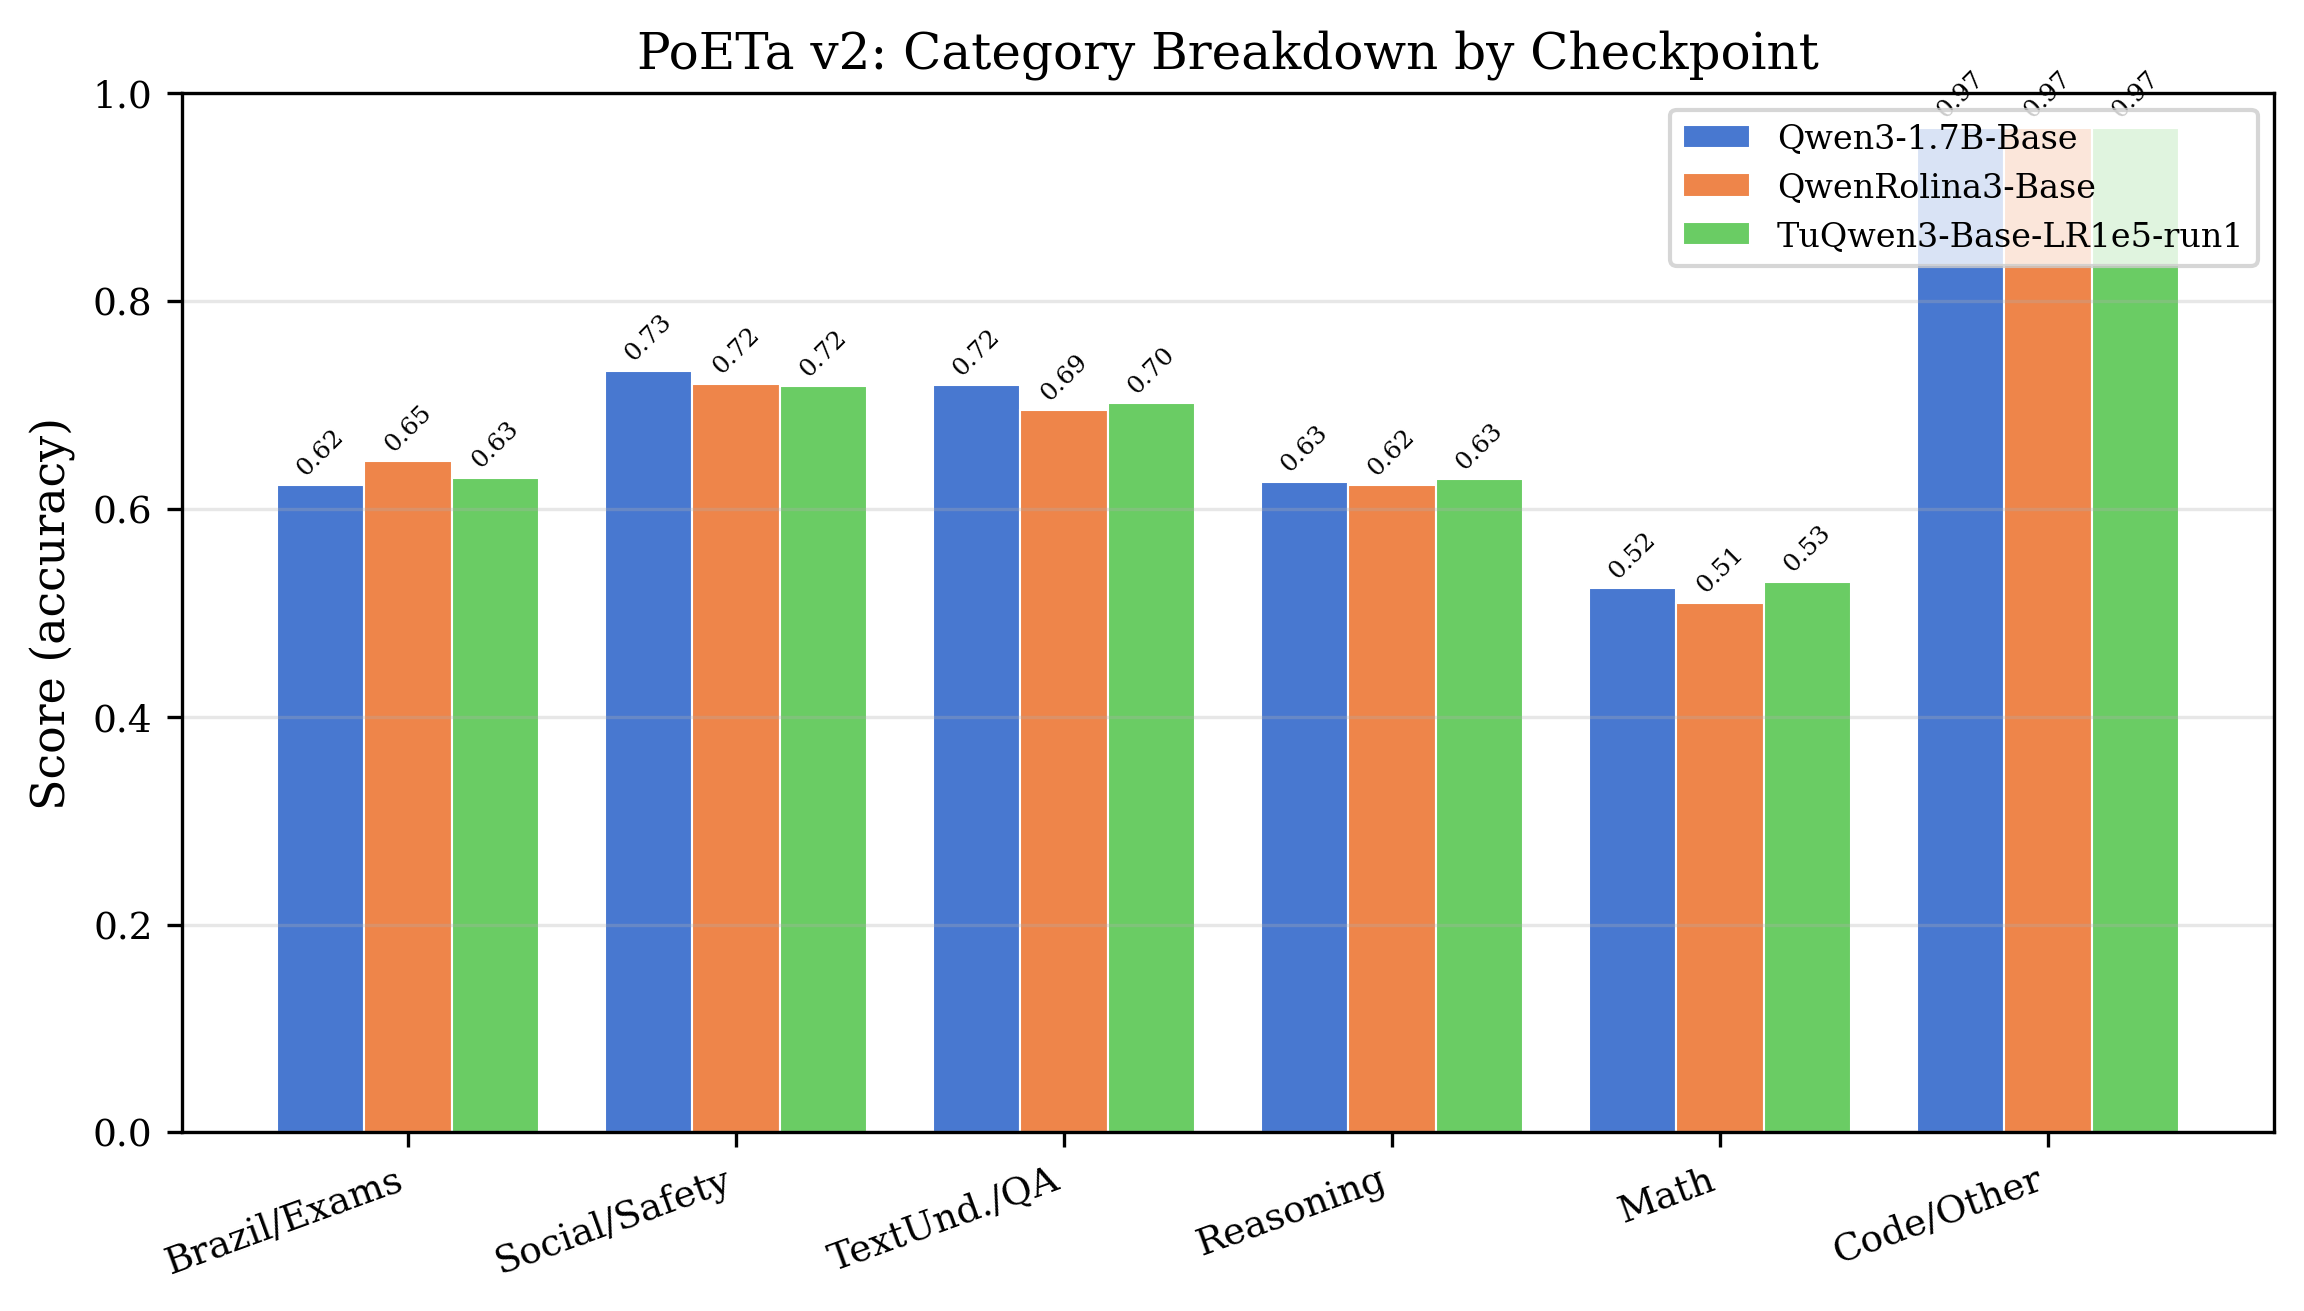
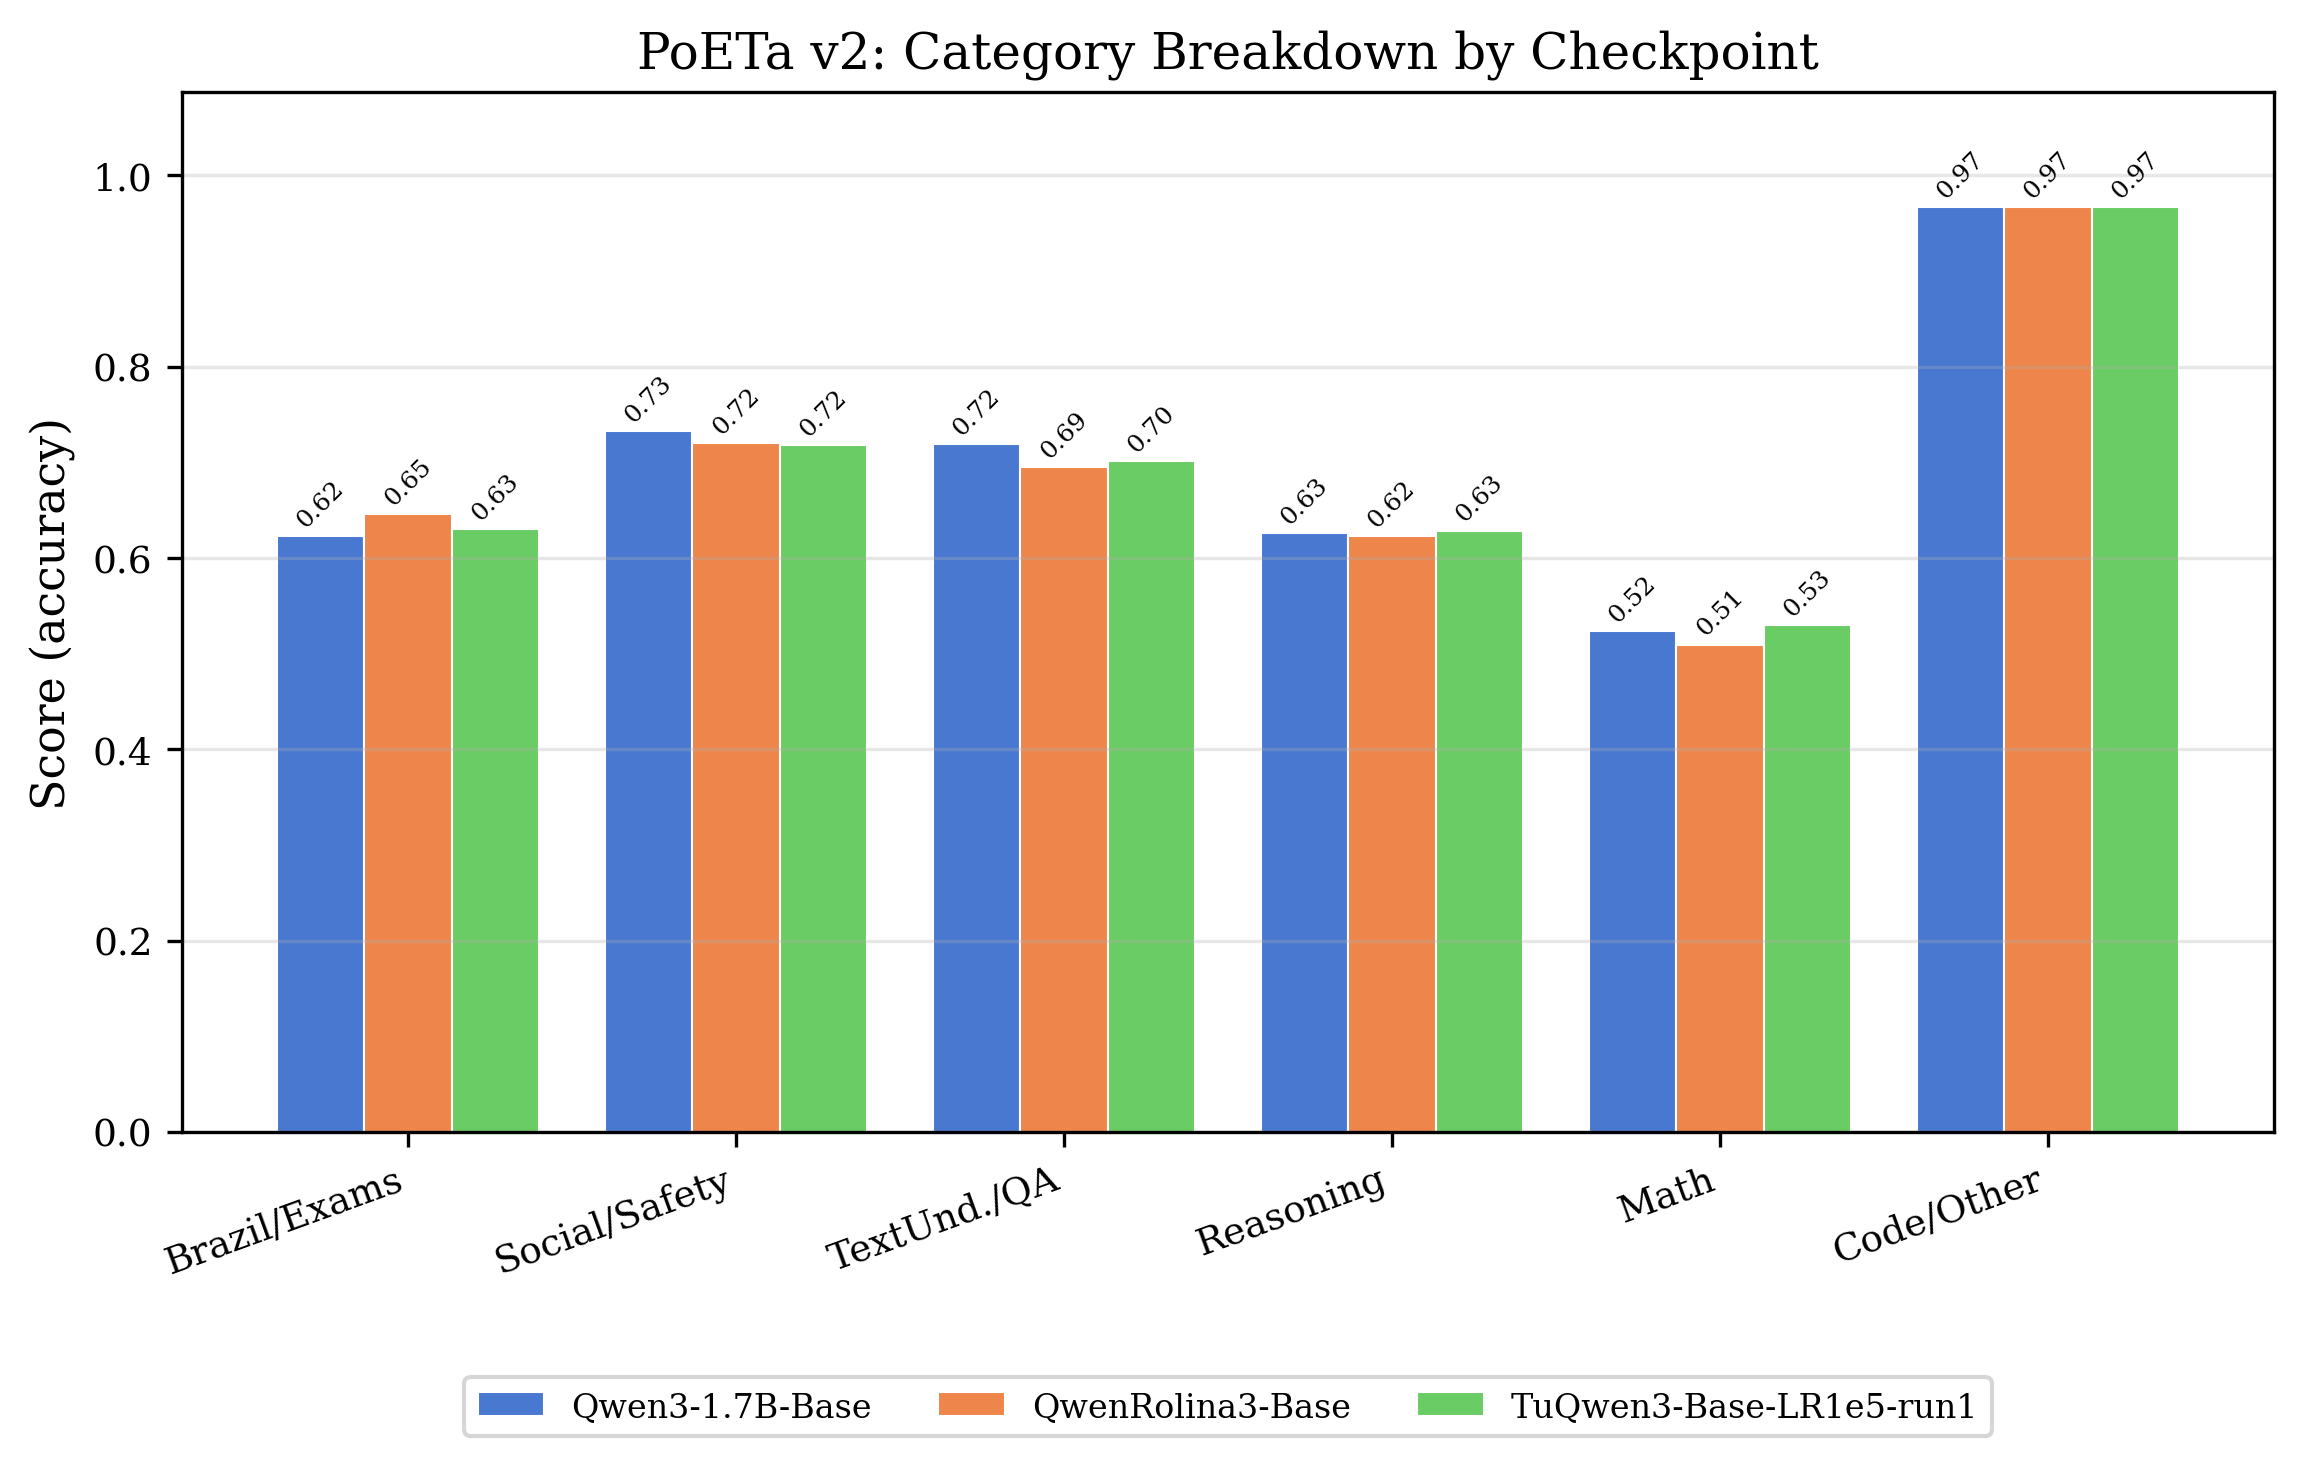
Update figure layouts and legends for PoETa v2 charts

diff --git a/scripts/plot_paper_figures.py b/scripts/plot_paper_figures.py
@@ -93,7 +93,7 @@ def plot_all_native_translated(comp: pd.DataFrame, out_dir: Path) -> None:
     ax.set_xticklabels(comp["checkpoint"], rotation=15, ha="right")
     ax.set_ylabel("Score (accuracy)")
     ax.set_title("PoETa v2: All vs Native vs Translated")
-    ax.legend(loc="upper left")
+    ax.legend(loc="upper center", bbox_to_anchor=(0.5, -0.28), ncol=3)
     ax.set_ylim(0, min(1.0, comp[["all_score", "native_score", "translated_score"]].max().max() + 0.15))
     ax.grid(axis="y", alpha=0.3)
 
@@ -115,7 +115,7 @@ def plot_all_native_translated(comp: pd.DataFrame, out_dir: Path) -> None:
     ax2.set_xticklabels(comp["checkpoint"], rotation=15, ha="right")
     ax2.set_ylabel("Score (accuracy)")
     ax2.set_title("PoETa v2: All vs Native vs Translated")
-    ax2.legend(loc="upper left")
+    ax2.legend(loc="upper center", bbox_to_anchor=(0.5, -0.28), ncol=3)
     ax2.set_ylim(0, min(1.0, comp[["all_score", "native_score", "translated_score"]].max().max() + 0.15))
     ax2.grid(axis="y", alpha=0.3)
     fig2.savefig(out_dir / "all_native_translated.pdf")
@@ -156,8 +156,8 @@ def plot_category_breakdown(comp: pd.DataFrame, out_dir: Path) -> None:
     ax.set_xticklabels([CATEGORY_SHORT.get(c, c) for c in cats], rotation=20, ha="right")
     ax.set_ylabel("Score (accuracy)")
     ax.set_title("PoETa v2: Category Breakdown by Checkpoint")
-    ax.legend(loc="upper right", fontsize=8)
-    ax.set_ylim(0, min(1.0, max(comp[cats].max()) + 0.15))
+    ax.legend(loc="upper center", bbox_to_anchor=(0.5, -0.22), ncol=3, fontsize=8)
+    ax.set_ylim(0, max(comp[cats].max()) + 0.12)
     ax.grid(axis="y", alpha=0.3)
 
     out_path = out_dir / "category_breakdown.png"
@@ -177,8 +177,8 @@ def plot_category_breakdown(comp: pd.DataFrame, out_dir: Path) -> None:
     ax2.set_xticklabels([CATEGORY_SHORT.get(c, c) for c in cats], rotation=20, ha="right")
     ax2.set_ylabel("Score (accuracy)")
     ax2.set_title("PoETa v2: Category Breakdown by Checkpoint")
-    ax2.legend(loc="upper right", fontsize=8)
-    ax2.set_ylim(0, min(1.0, max(comp[cats].max()) + 0.15))
+    ax2.legend(loc="upper center", bbox_to_anchor=(0.5, -0.22), ncol=3, fontsize=8)
+    ax2.set_ylim(0, max(comp[cats].max()) + 0.12)
     ax2.grid(axis="y", alpha=0.3)
     fig2.savefig(out_dir / "category_breakdown.pdf")
     plt.close(fig2)
